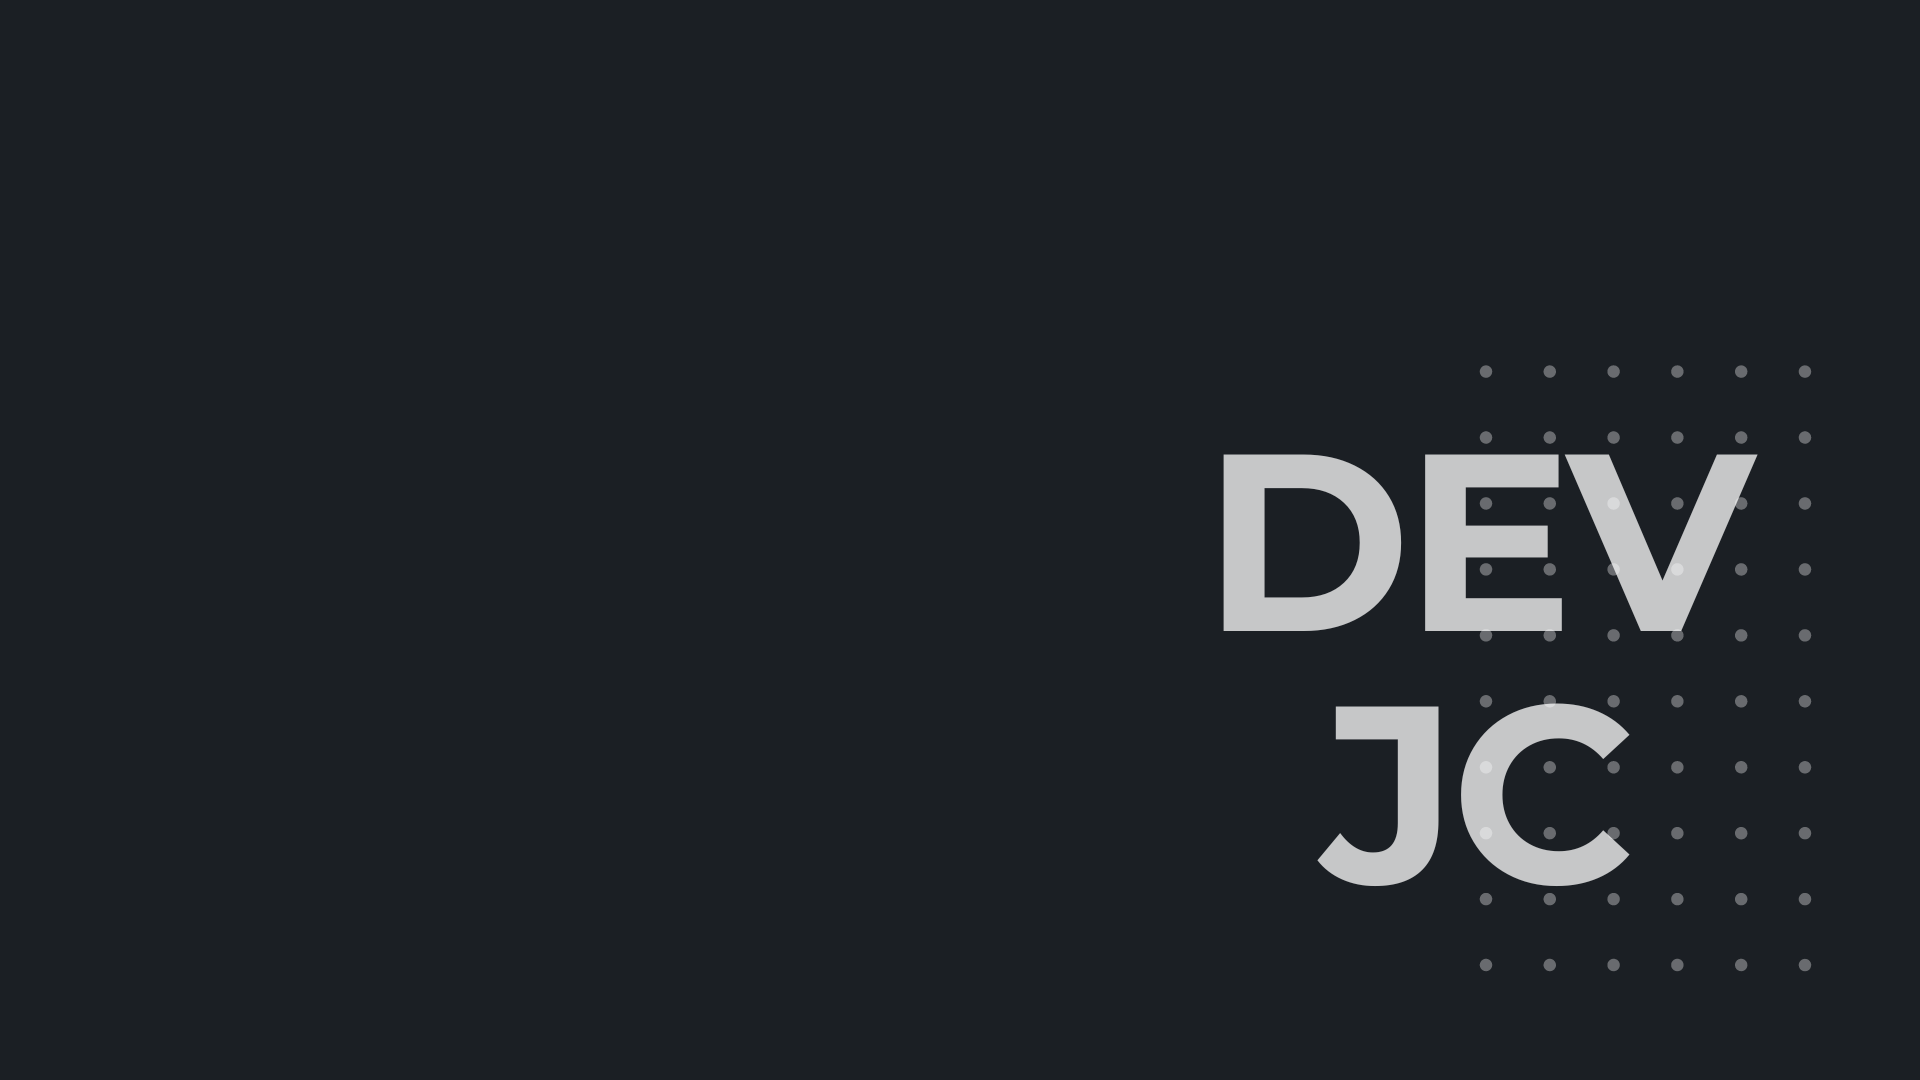
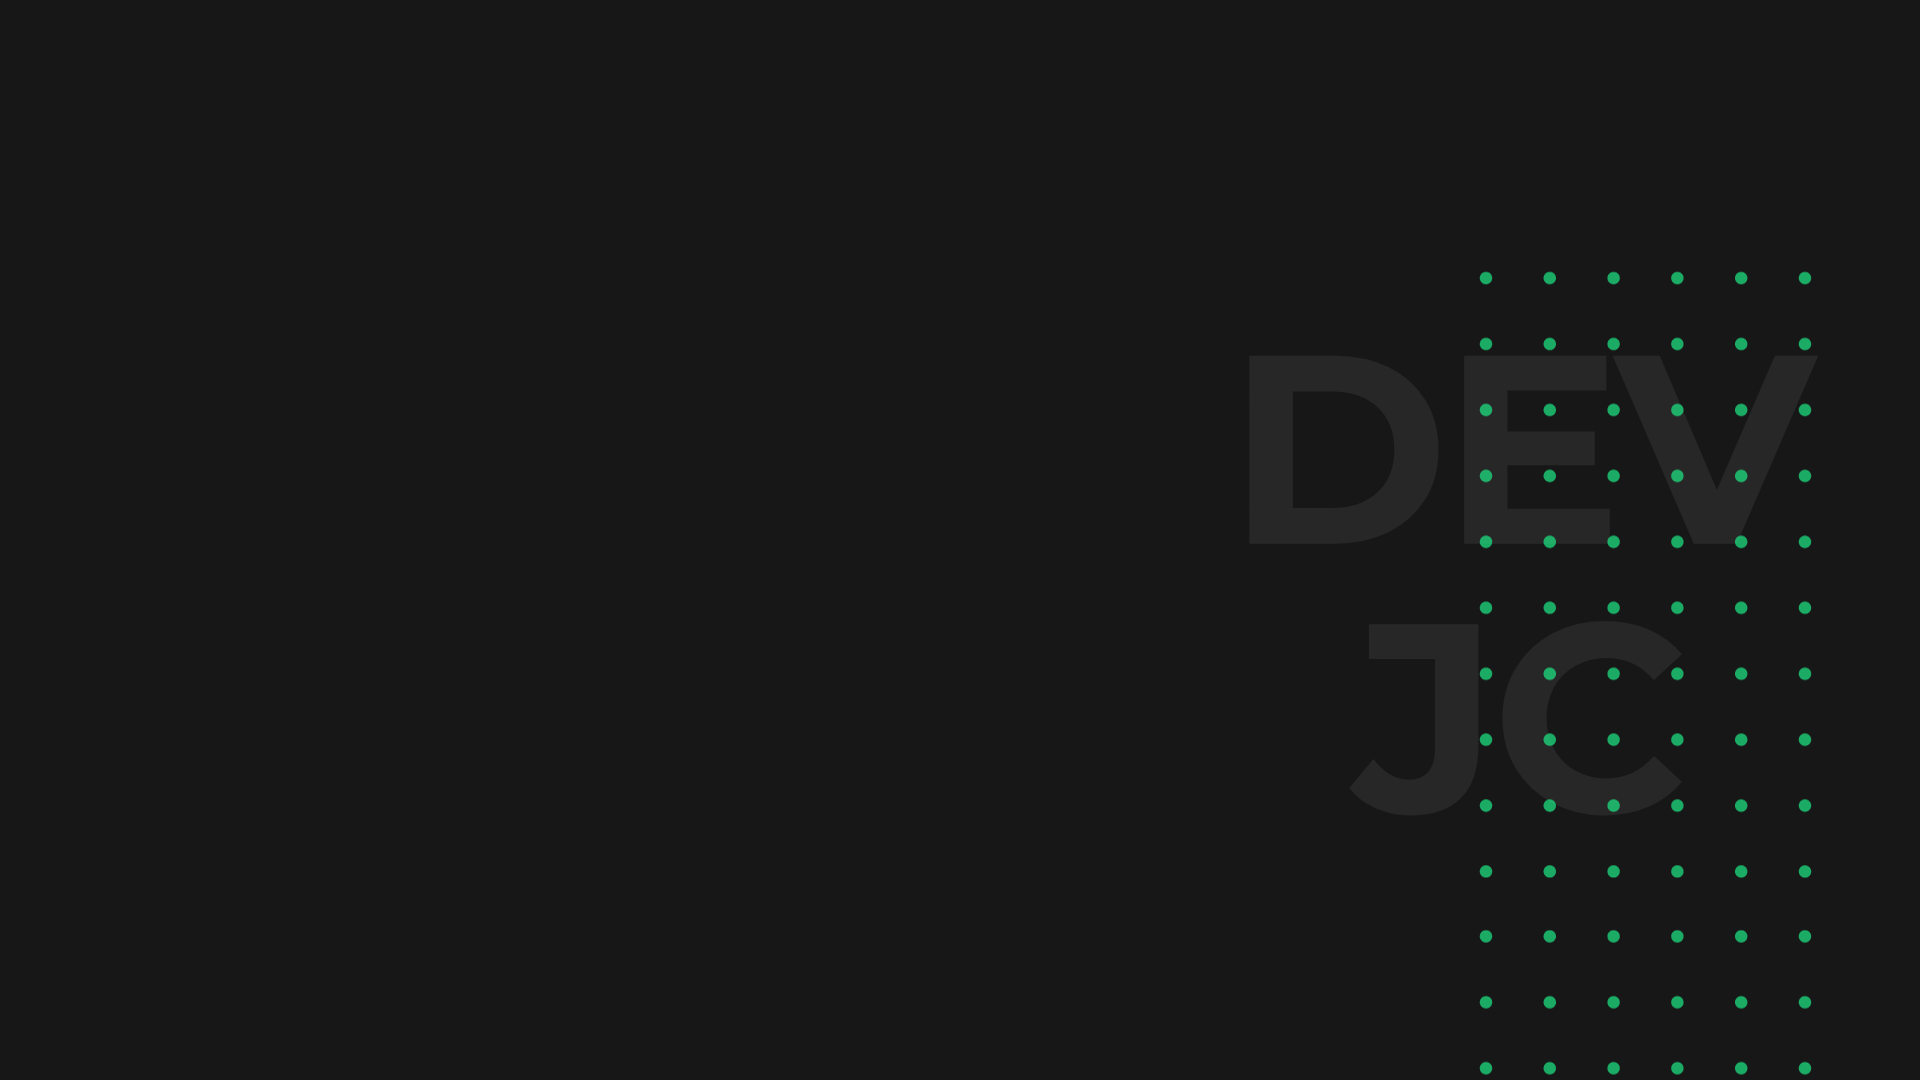
version 2.0

Changed region(s): [[0.625, 0.3972, 0.9375, 0.6111], [0.6875, 0.6417, 0.875, 0.825]]

diff --git a/index.html b/index.html
@@ -27,7 +27,7 @@
             <li><a href="#home">Inicio</a></li>
             <li><a href="#about">Acerca</a></li>
             <li><a href="#services">Servicios</a></li>
-            <!-- <li><a href="#portfolio">Portafolio</a></li> -->
+            <li><a href="#portfolio">Portafolio</a></li>
             <li><a href="#contact">Contacto</a></li>
         </ul>
         <div class="top-btnn">
@@ -61,27 +61,23 @@
             <img src="img/about.jpg" alt="#">
         </div>
         <div class="about-text" data-aos="zoom-in-up">
-            <h2>Soy <span>desarrollador</span> web</h2>
+            <h2>Mi <span>experiencia</span></h2>
             <div class="exp-area">
                 <p class="exp">
-                    Experiencia:
-                    <span>1 año</span>
+                    Años de trabajo:
+                    <span>3 años</span>
                 </p>
 
                 <p class="exp">
-                    Lugar:
-                    <span>Lima, Peru</span>
+                    Proyecto completados:
+                    <span>20</span>
                 </p>
 
                 <p class="exp">
-                    Email:
-                    <span>joaquinfc357@gmail.com</span>
+                    Clientes satisfechos:
+                    <span>15</span>
                 </p>
-
-                <p class="exp">
-                    Número:
-                    <span>991 867 752</span>
-                </p>
+                <br>
 
                 <a href="#portfolio" class="btn">Ver Proyecto</a>
             </div>
@@ -118,7 +114,7 @@
 
      </section>
      <!-- portfolio -->
-     <!-- <section class="portfolio" id="portfolio">
+     <section class="portfolio" id="portfolio">
         <div class="center-text" data-aos="fade-down">
             <h2>Mi <span>Portafolio</span></h2>
         </div>
@@ -128,13 +124,15 @@
                 <img src="img/port-1.jpg" alt="#">
                 <div class="main-row">
                     <div class="row-text">
-                        <h5>Diseño Web</h5>
+                        <h5>Diseño Web - Tailwind</h5>
                     </div>
                     <div class="row-icon">
-                        <i class="ri-github-fill"></i>
+                        <a href="https://joaquincc.github.io/Tailwind_web/" target="_blank">
+                            <i class="ri-github-fill"></i>
+                        </a>
                     </div>
                 </div>
-                <h4>Desarrollo de una Web Ecomerce</h4>
+                <h4>Desarrollo de una Landing Page</h4>
             </div>
 
             <div class="row">
@@ -202,7 +200,7 @@
                 <h4>Desarrollo de una Web Ecomerce</h4>
             </div>
         </div>
-     </section> -->
+     </section>
 
      <!-- contacto -->
      <section class="contact" id="contact">

diff --git a/style/style.css b/style/style.css
@@ -10,9 +10,9 @@
 
 :root{
     --text-color: #fff;
-    --bg-color: #1b1f24;
-    --second-bg-color: #22282f;
-    --main-color: #13bbff;
+    --bg-color: #171718;
+    --second-bg-color: #1f2124;
+    --main-color: #1ce783;
     --other-color: #c3cad5;
 
     --h1-font: 4.5rem;
@@ -183,8 +183,8 @@ header.sticky{
 .about-img img{
     width: 100%;
     /* cambiar a 530px : heigt - max-width para pruebas */
-    height: 440px;
-    max-width: 440px;
+    height: 438px;
+    max-width: 438px;
     border-radius: 50%;
     object-fit: cover;
     border: 7px solid var(--main-color);
@@ -225,7 +225,7 @@ header.sticky{
 }
 .box{
     padding: 80px 40px 66px;
-    background: #2d343f;
+    background: var(--second-bg-color);
     border-radius: 28px;
     border: 1px solid transparent;
     box-shadow: 0 0 5px var(--main-color);
@@ -287,7 +287,7 @@ header.sticky{
     margin-bottom: 1.4rem;
 }
 .row{
-    background: #2d342d;
+    background: var(--bg-color);
     border-radius: 28px;
     border: 1px solid transparent;
     box-shadow: 0 0 5px var(--main-color);
@@ -314,7 +314,7 @@ header.sticky{
     font-size: 27px;
     border-radius: 50%;
     color: var(--text-color);
-    background: #075fe4;
+    background: #1db954;
 }
 .row h4{
     font-size: 25px;
@@ -389,7 +389,7 @@ form .send-btn:hover{
     display: inline-block;
     align-items: center;
     justify-content: center;
-    background: #075fe4;
+    background: #20E167;
     width: auto;
     height: auto;
     border-radius: 50%;

diff --git a/js/main.js b/js/main.js
@@ -1,7 +1,7 @@
 const typed = new Typed('.typed', {
 	strings: [
-		'<i class="type">Joaquin</i>',
-		'<i class="type">Desarrollador Web</i>',
+		'<i class="type">>Joaquin</i>',
+		'<i class="type">>Desarrollador Web</i>',
 	],
 	// stringsElement: '#cadenas-texto', // ID del elemento que contiene cadenas de texto a mostrar.
 	typeSpeed: 70, // Velocidad en mlisegundos para poner una letra,
